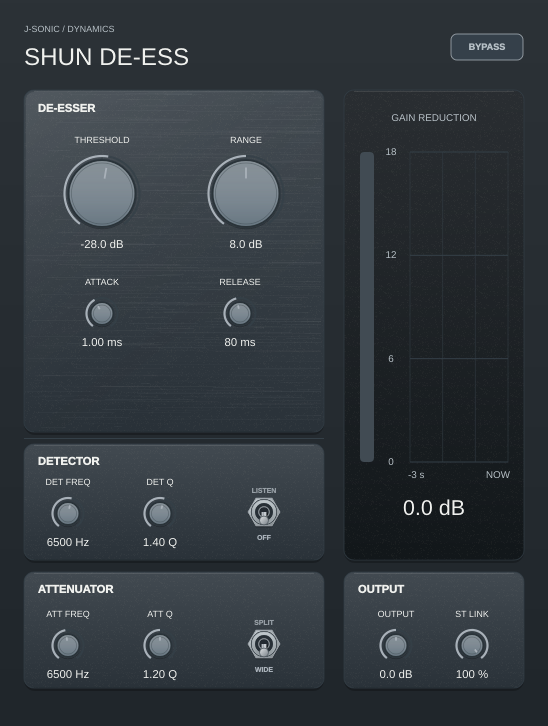
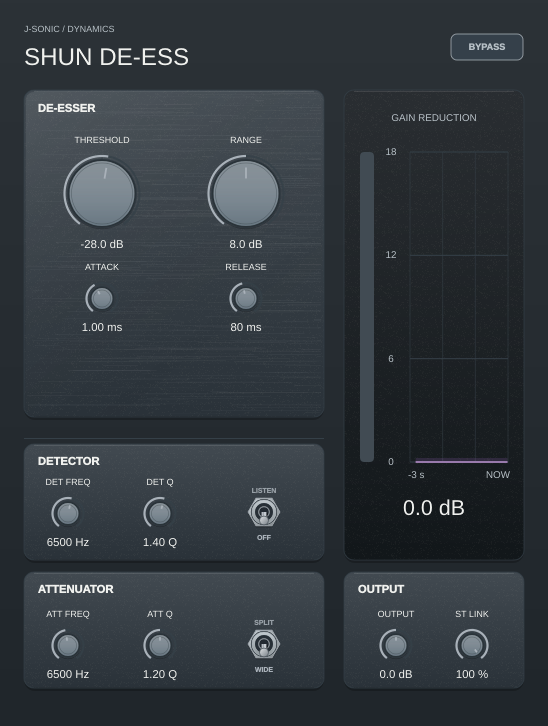
Refine SHUN compressor panel spacing

Changed region(s): [[0.4033, 0.3636, 0.4964, 0.4848], [0.1551, 0.3636, 0.2172, 0.4848], [0.7755, 0.6061, 0.9307, 0.6364]]

diff --git a/projects/ShunDeEss/Source/PluginEditor.cpp b/projects/ShunDeEss/Source/PluginEditor.cpp
@@ -438,7 +438,7 @@ void ShunDeEssEditor::paint (juce::Graphics& g)
     g.drawText ("SHUN DE-ESS", 24, 38, 410, 38, juce::Justification::centredLeft);
     g.saveState();
     g.addTransform (juce::AffineTransform::translation (0.0f, -50.0f));
-    drawBrushedMetalPanel (g, { 24, 140, 300, 342 }, 10, theme.card, theme.grid);
+    drawBrushedMetalPanel (g, { 24, 140, 300, 327 }, 10, theme.card, theme.grid);
     drawAnalogPanel (g, { 24, 494, 300, 116 }, 10, theme.card, theme.grid);
     drawAnalogPanel (g, { 24, 622, 300, 116 }, 10, theme.card, theme.grid);
     drawAnalogPanel (g, { 344, 622, 180, 116 }, 10, theme.card, theme.grid);
@@ -538,8 +538,8 @@ void ShunDeEssEditor::resized()
     };
     place (4, 38, 208, 128, 108);
     place (5, 168, 208, 156, 108);
-    place (6, 64, 350, 76, 64);
-    place (7, 202, 350, 76, 64);
+    place (6, 64, 335, 76, 64);
+    place (7, 208, 335, 76, 64);
     place (0, 30, 550, 76, 64);
     place (1, 122, 550, 76, 64);
     place (2, 30, 682, 76, 64);

diff --git a/projects/ShunDeEss/DEVELOPMENT_LOG.md b/projects/ShunDeEss/DEVELOPMENT_LOG.md
@@ -53,3 +53,8 @@
 ### 2026-10-20 — control alignment refinement
 - Restored DET Q and ATT Q to their prior positions and lowered both switches
   by 3 px to align with the knob rows.
+
+### 2026-10-20 — compressor panel spacing
+- Aligned Release horizontally with Range and moved Attack/Release up by 15 px.
+- Shortened the Compressor panel by 15 px. With Detector unchanged, the gap
+  between panels is now 27 px, up from 12 px (15 px of additional open space).
